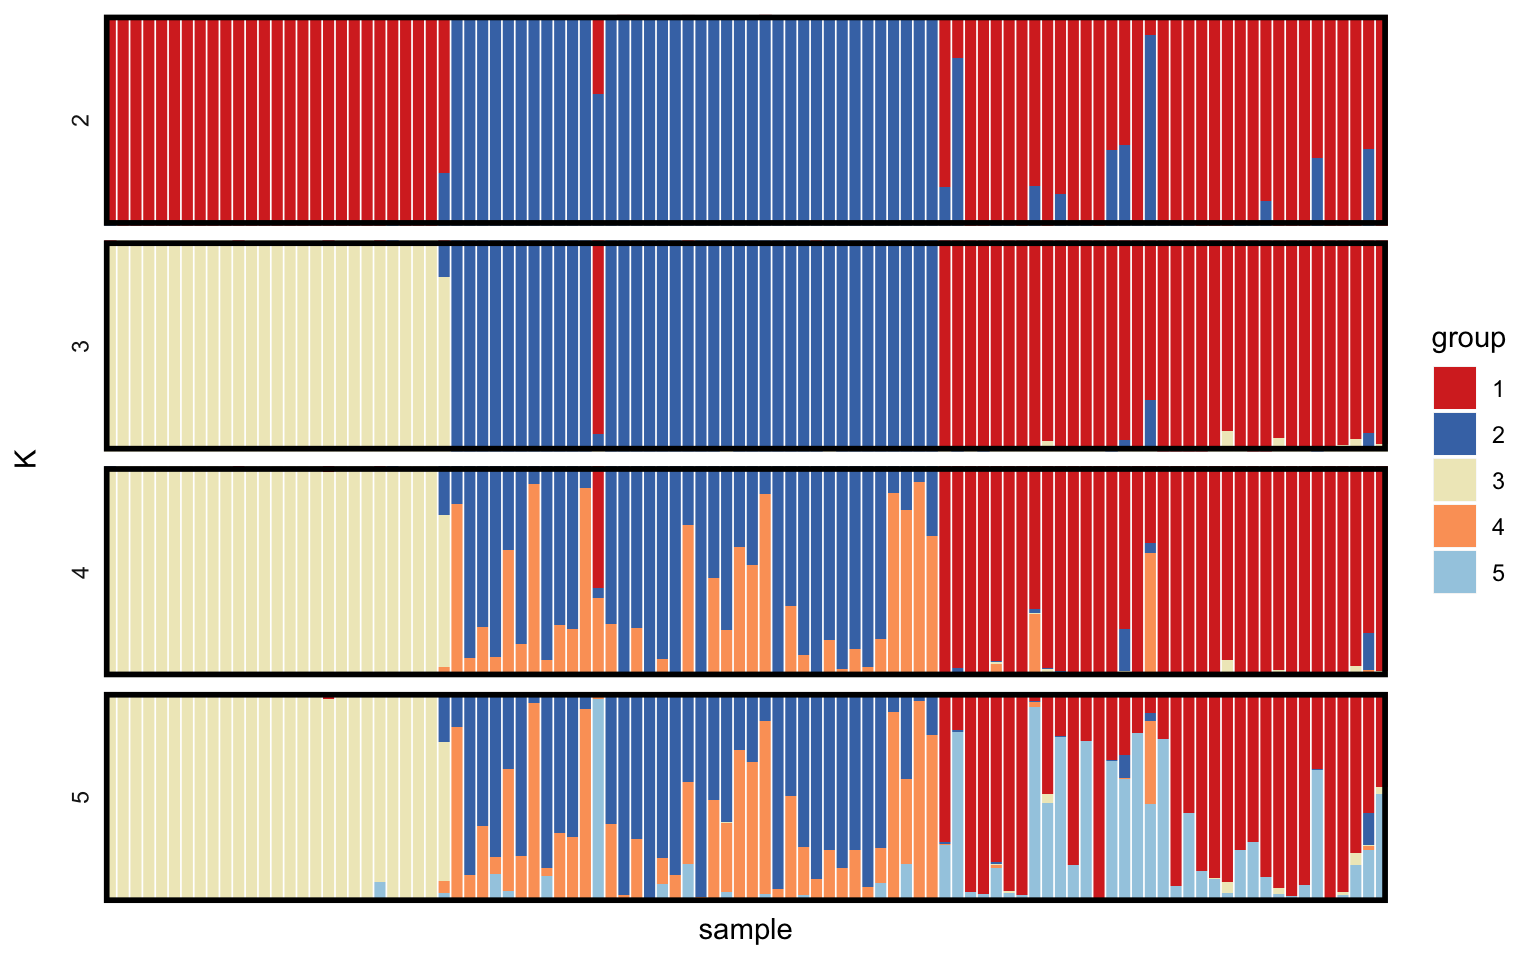
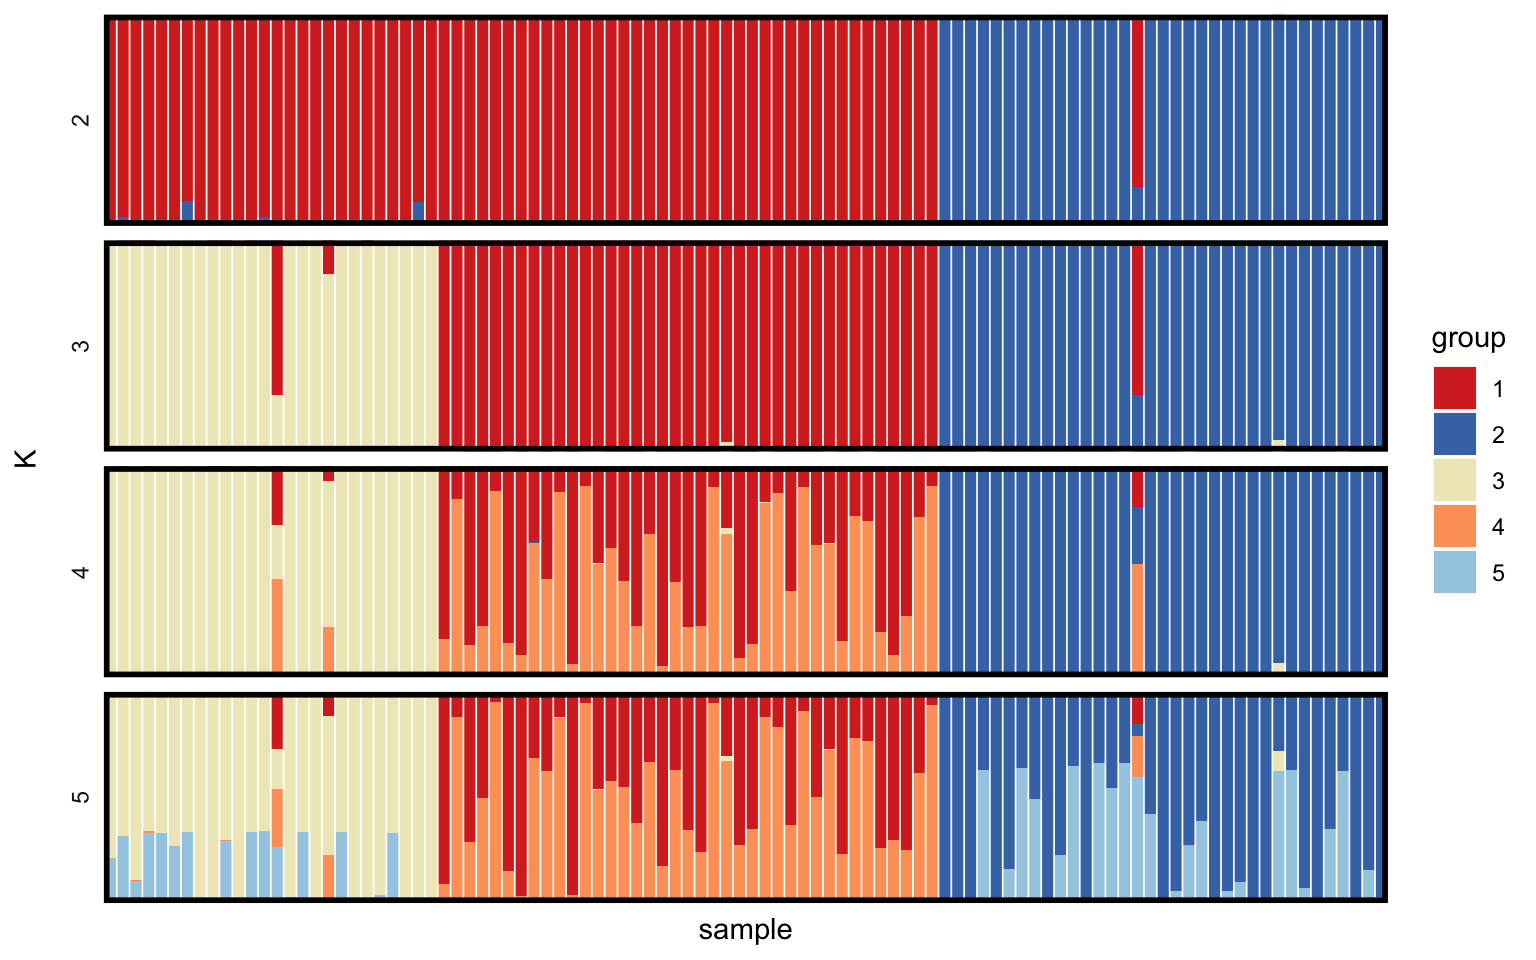
updates to website

diff --git a/docs/articles/tutorial-biallelic.html b/docs/articles/tutorial-biallelic.html
@@ -94,57 +94,50 @@
 
     
     
-<p>This vignette demonstrates the complete MALECOT analysis pipeline, including:</p>
-<ul>
-<li>importing data</li>
-<li>running the main MCMC</li>
-<li>diagnosing good and bad MCMC behaviour</li>
-<li>comparing different models</li>
-<li>producing basic outputs.</li>
-</ul>
+<p>This vignette demonstrates the complete MALECOT analysis pipeline for <em>bi-allelic</em> data, i.e. data for which there are two alleles at every locus (the classic example being SNP data).</p>
 <div id="simulate-some-data" class="section level3">
 <h3 class="hasAnchor">
 <a href="#simulate-some-data" class="anchor"></a>Simulate some data</h3>
-<p>MALECOT comes with built-in functions for simulating data from different models. The models used in simulation are exactly the same as the models used in the inference step, allowing us to test the power of the program without worrying about discrepancies between the data and the assumed model. We will simulate a data set of 100 samples, each genotyped at 20 bi-allelic loci and originating from 3 distinct subpopulations. We will assume that the mean complexity of infection (COI) in these subpopulation varies from 1 to 3:</p>
-<div class="sourceCode"><pre class="sourceCode r"><code class="sourceCode r">mysim &lt;-<span class="st"> </span><span class="kw"><a href="../reference/sim_data.html">sim_data</a></span>(<span class="dt">n =</span> <span class="dv">100</span>, <span class="dt">data_format =</span> <span class="st">"biallelic"</span>, <span class="dt">L =</span> <span class="dv">24</span>, <span class="dt">K =</span> <span class="dv">3</span>, <span class="dt">COI_mean =</span> <span class="kw">c</span>(<span class="dv">3</span>,<span class="dv">2</span>,<span class="dv">1</span>))</code></pre></div>
+<p>MALECOT comes with built-in functions for simulating data from different models. The models used in simulation are exactly the same as the models used in the inference step, allowing us to test the power of the program to arrive at the correct answer. We will simulate a data set of 100 samples, each genotyped at 24 loci and originating from 3 distinct subpopulations. We will assume that the mean complexity of infection (COI) in these subpopulation varies from 1.5 to 3:</p>
+<div class="sourceCode"><pre class="sourceCode r"><code class="sourceCode r">mysim &lt;-<span class="st"> </span><span class="kw"><a href="../reference/sim_data.html">sim_data</a></span>(<span class="dt">n =</span> <span class="dv">100</span>, <span class="dt">data_format =</span> <span class="st">"biallelic"</span>, <span class="dt">L =</span> <span class="dv">24</span>, <span class="dt">K =</span> <span class="dv">3</span>, <span class="dt">COI_mean =</span> <span class="kw">c</span>(<span class="fl">1.5</span>,<span class="dv">2</span>,<span class="dv">3</span>))</code></pre></div>
 <p>Running <code>names(mysim)</code> we can see that the simulated data contains several elements:</p>
 <div class="sourceCode"><pre class="sourceCode r"><code class="sourceCode r"><span class="kw">names</span>(mysim)</code></pre></div>
 <pre><code>## [1] "data"       "n"          "L"          "true_group" "true_m"    
 ## [6] "true_p"     "call"</code></pre>
-<p>The raw data is stored in the “data” element. In addition, we have a record of the allele frequencies (p), the complexity of infection (m) and the grouping that were used in generating these data. These additional records can be useful in ground-truthing our estimated values later on, but are not actually used by the program - all that is needed for MALECOT analysis is the “data” element.</p>
-<p>Data must be in dataframe format - when using real data, functions such as <code>read.csv()</code> and <code>read.table()</code> can be used to import data. Running <code>head(mysim$data)</code> we can see the general data format required by MALECOT:</p>
+<p>The actual data that we are interested in is stored in the “data” element, but notice that we also have a record of the allele frequencies (“true_p”), the complexity of infection (“true_m”) and the grouping (“true_group”) that were used in generating these data. These additional records can be useful in ground-truthing our estimated values later on, but are not actually used by the program - all that is needed for MALECOT analysis is the “data” element.</p>
+<p>Running <code>head(mysim$data)</code> we can see the general format required by MALECOT:</p>
 <div class="sourceCode"><pre class="sourceCode r"><code class="sourceCode r"><span class="kw">head</span>(mysim$data)</code></pre></div>
 <pre><code>##   sample_ID pop locus1 locus2 locus3 locus4 locus5 locus6 locus7 locus8
-## 1   samp001   1    1.0    0.0    0.0    0.0    1.0    0.0    0.0    0.0
-## 2   samp002   1    0.0    0.5    0.0    0.5    0.0    0.5    1.0    0.5
-## 3   samp003   1    0.5    0.0    0.5    0.0    0.0    1.0    0.5    0.0
-## 4   samp004   1    0.5    0.5    0.5    0.5    0.0    1.0    0.0    0.0
-## 5   samp005   1    0.5    1.0    1.0    0.5    0.5    0.5    0.5    0.5
-## 6   samp006   1    0.0    0.5    1.0    0.5    0.0    1.0    0.0    0.5
+## 1   samp001   1      0    1.0      0    0.0      0      1    0.0      1
+## 2   samp002   1      1    1.0      1    1.0      0      1    0.0      1
+## 3   samp003   1      0    1.0      0    1.0      0      1    1.0      0
+## 4   samp004   1      0    0.0      1    0.0      0      1    1.0      0
+## 5   samp005   1      0    0.5      0    0.5      0      1    0.5      0
+## 6   samp006   1      0    1.0      0    0.0      0      1    0.0      1
 ##   locus9 locus10 locus11 locus12 locus13 locus14 locus15 locus16 locus17
-## 1      1       1     0.0     1.0     1.0       0     0.0       1     0.0
-## 2      0       1     1.0     1.0     1.0       0     0.5       1     0.5
-## 3      0       1     0.5     0.5     1.0       0     1.0       1     0.0
-## 4      0       1     1.0     1.0     0.5       0     1.0       1     0.0
-## 5      0       1     1.0     0.5     0.5       0     0.5       1     0.0
-## 6      0       1     0.5     1.0     0.5       0     0.5       1     0.0
+## 1      0       1       1       1       0       0       0       1     1.0
+## 2      0       1       1       1       1       0       1       1     0.0
+## 3      0       1       1       1       1       0       1       0     0.0
+## 4      0       1       1       1       0       0       1       0     0.0
+## 5      0       1       1       1       1       0       1       1     0.5
+## 6      0       1       1       1       0       0       0       1     1.0
 ##   locus18 locus19 locus20 locus21 locus22 locus23 locus24
-## 1     0.0     1.0       0     0.0     0.0     1.0       1
-## 2     0.0     0.5       0     0.5     0.0     1.0       1
-## 3     0.0     0.5       0     1.0     0.5     0.5       1
-## 4     0.5     1.0       0     0.5     0.5     1.0       1
-## 5     0.5     0.5       0     1.0     0.0     0.5       1
-## 6     0.5     1.0       0     1.0     0.5     0.5       1</code></pre>
-<p>Note that this is the required format <strong>for bi-allelic data only</strong> - for multi-allelic data see <a href="todo">this vignette</a>.</p>
-<p>Samples are in rows and loci are in columns. There are also several meta-data columns, including the sample ID and the population of origin. These meta-data columns are optional and can be turned on or off when loading the data into a project.</p>
+## 1       0     1.0       0     1.0     0.0       1       1
+## 2       0     1.0       0     1.0     1.0       0       1
+## 3       1     0.0       0     1.0     0.0       1       1
+## 4       0     0.0       0     1.0     0.0       1       1
+## 5       0     0.5       0     0.5     0.5       1       1
+## 6       0     0.0       0     1.0     0.0       0       1</code></pre>
+<p>Note that this is the required format <strong>for bi-allelic data only</strong> - multi-allelic data is dealt with in <a href="https://bobverity.github.io/MALECOT/articles/tutorial-multiallelic.html">this vignette</a>.</p>
+<p>Data must be in the form of a dataframe, with samples in rows and loci in columns. When using real data, functions such as <code>read.csv()</code> and <code>read.table()</code> can be used to import data in this format. There are several meta-data columns in the example above, including the sample ID and the population of origin. These meta-data columns are optional and can be turned on or off when loading the data into a project.</p>
 <p>The actual genetic data must be one of the following values</p>
 <ul>
-<li>1 = homozygote for the reference allele</li>
-<li>0 = homozygote for the alternative allele</li>
-<li>0.5 = heterozygote</li>
-<li>-9 = missing data (the value used can be specified, but -9 is the default)</li>
+<li>1 = homozygote for the reference (REF) allele</li>
+<li>0 = homozygote for the alternative (ALT) allele</li>
+<li>0.5 = heterozygote (both alleles seen)</li>
+<li>-9 = missing data (this value can be specified, -9 is the default)</li>
 </ul>
-<p>Note that MALECOT currently does not use within-sample allele frequency information other than in terms of the major homozygote/heterozygote call, therefore intermediate values should be converted to one of the above options. MALECOT does, however, include error terms to allow for misclassification of homozygote/heterozygote calls.</p>
+<p>MALECOT currently does not use within-sample allele frequency data - for example the raw read depth of REF vs. ALT alleles - and hence read depths should be converted to homozygote/heterozygote calls prior to analysis. MALECOT does, however, include error terms that allow for misclassification of homozygotes as heterozygotes and vice versa, which can account for some noise in the data.</p>
 </div>
 <div id="create-a-project-and-read-in-data" class="section level3">
 <h3 class="hasAnchor">
@@ -152,7 +145,7 @@
 <p>MALCOT works with projects, which are essentially just simple lists containing all the inputs and outputs of a given analysis. We start by creating a project and loading in our data:</p>
 <div class="sourceCode"><pre class="sourceCode r"><code class="sourceCode r">myproj &lt;-<span class="st"> </span><span class="kw"><a href="../reference/malecot_project.html">malecot_project</a></span>()
 myproj &lt;-<span class="st"> </span><span class="kw"><a href="../reference/bind_data_biallelic.html">bind_data_biallelic</a></span>(myproj, mysim$data, <span class="dt">ID_col =</span> <span class="dv">1</span>, <span class="dt">pop_col =</span> <span class="dv">2</span>)</code></pre></div>
-<p>Notice the general format of the <code>bind_data()</code> function, which takes the same project as both input and output. This is the format that most MALECOT functions will take, as it allows a function to modify the project before overwriting the original version. In the input arguments we have also specified which columns are meta-data, and all other columns are assumed to contain genetic data.</p>
+<p>Notice the general format of the <code>bind_data()</code> function, which takes the same project as both input and output. This is the format that most MALECOT functions will take, as it allows a function to modify the project before overwriting the original version. In the input arguments we have specified which columns are meta-data, and all other columns are assumed to contain genetic data.</p>
 <p>We can view the project to check that the data have been loaded in correctly:</p>
 <div class="sourceCode"><pre class="sourceCode r"><code class="sourceCode r">myproj</code></pre></div>
 <pre><code>## DATA:
@@ -169,10 +162,10 @@ myproj &lt;-<span class="st"> </span><span class="kw"><a href="../reference/bind
 <div id="define-parameters-and-run-basic-mcmc" class="section level3">
 <h3 class="hasAnchor">
 <a href="#define-parameters-and-run-basic-mcmc" class="anchor"></a>Define parameters and run basic MCMC</h3>
-<p>We can define different models by using different parameter sets. Our first parameter set will represent a simple model in which any COI between 1 and <code>COI_max</code> is equally likely <em>a priori</em>, and in which there is zero error in genotype calls:</p>
+<p>We can define different models by using different parameter sets. Our first parameter set will represent a simple model in which any COI between 1 and <code>COI_max</code> is equally likely <em>a priori</em>. We also assume zero error in genotype calls:</p>
 <div class="sourceCode"><pre class="sourceCode r"><code class="sourceCode r">myproj &lt;-<span class="st"> </span><span class="kw"><a href="../reference/new_set.html">new_set</a></span>(myproj, <span class="dt">name =</span> <span class="st">"uniform model"</span>, <span class="dt">COI_model =</span> <span class="st">"uniform"</span>,
                   <span class="dt">COI_max =</span> <span class="dv">20</span>, <span class="dt">estimate_error =</span> <span class="ot">FALSE</span>, <span class="dt">e1 =</span> <span class="dv">0</span>, <span class="dt">e2 =</span> <span class="dv">0</span>)</code></pre></div>
-<p>Producing a summary of the project we can now see additional properties, including the current active set and the parameters of this set.</p>
+<p>Viewing the project we can now see additional properties, including the current active set and the parameters of this set.</p>
 <div class="sourceCode"><pre class="sourceCode r"><code class="sourceCode r">myproj</code></pre></div>
 <pre><code>## DATA:
 ##    data format = biallelic
@@ -188,8 +181,6 @@ myproj &lt;-<span class="st"> </span><span class="kw"><a href="../reference/bind
 ##    lambda = 1
 ##    COI model = uniform
 ##    COI max = 20
-##    estimate COI mean = TRUE
-##    COI dispersion = 2
 ##    estimate error = FALSE
 ##    e1 = 0
 ##    e2 = 0</code></pre>
@@ -201,38 +192,26 @@ myproj &lt;-<span class="st"> </span><span class="kw"><a href="../reference/bind
 ## 
   |                                                                       
   |=================================================================| 100%
-##    converged within 1900 iterations
+##    converged within 1300 iterations
 ## Sampling phase
 ## 
   |                                                                       
   |=================================================================| 100%
-##    completed in 1.76111 seconds
+##    completed in 1.71437 seconds
 ## 
 ## Running MCMC for K = 2
 ## Burn-in phase
 ## 
   |                                                                       
   |=================================================================| 100%
-##    converged within 1700 iterations
+##    converged within 1600 iterations
 ## Sampling phase
 ## 
   |                                                                       
   |=================================================================| 100%
-##    completed in 2.99292 seconds
+##    completed in 2.96512 seconds
 ## 
 ## Running MCMC for K = 3
-## Burn-in phase
-## 
-  |                                                                       
-  |=================================================================| 100%
-##    converged within 1700 iterations
-## Sampling phase
-## 
-  |                                                                       
-  |=================================================================| 100%
-##    completed in 3.44192 seconds
-## 
-## Running MCMC for K = 4
 ## Burn-in phase
 ## 
   |                                                                       
@@ -242,22 +221,34 @@ myproj &lt;-<span class="st"> </span><span class="kw"><a href="../reference/bind
 ## 
   |                                                                       
   |=================================================================| 100%
-##    completed in 4.47019 seconds
+##    completed in 3.88445 seconds
+## 
+## Running MCMC for K = 4
+## Burn-in phase
+## 
+  |                                                                       
+  |=================================================================| 100%
+##    converged within 1900 iterations
+## Sampling phase
+## 
+  |                                                                       
+  |=================================================================| 100%
+##    completed in 4.701 seconds
 ## 
 ## Running MCMC for K = 5
 ## Burn-in phase
 ## 
   |                                                                       
   |=================================================================| 100%
-##    converged within 1700 iterations
+##    converged within 1900 iterations
 ## Sampling phase
 ## 
   |                                                                       
   |=================================================================| 100%
-##    completed in 5.24515 seconds
+##    completed in 5.49936 seconds
 ## 
 ## Processing results</code></pre>
-<pre><code>## Total run-time: 19.56 seconds</code></pre>
+<pre><code>## Total run-time: 20.4 seconds</code></pre>
 <p>If any values of K failed to converge then we can use the same <code><a href="../reference/run_mcmc.html">run_mcmc()</a></code> function to re-run the MCMC for just a single value of K and with different parameters (for example a longer burn-in). This will overwrite the existing output for the specified value of K, but will leave all other values untouched:</p>
 </div>
 <div id="comparing-values-of-k" class="section level3">

diff --git a/docs/articles/installation.html b/docs/articles/installation.html
@@ -128,7 +128,7 @@
 <div class="sourceCode"><pre class="sourceCode r"><code class="sourceCode r"><span class="kw">install.packages</span>(<span class="st">"devtools"</span>, <span class="dt">repos=</span><span class="st">'http://cran.us.r-project.org'</span>)</code></pre></div>
 <p>Then install the MALECOT package directly from GitHub by running</p>
 <div class="sourceCode"><pre class="sourceCode r"><code class="sourceCode r">devtools::<span class="kw">install_github</span>(<span class="st">"bobverity/malecot"</span>)</code></pre></div>
-<p>If you have any problems installing, please check the <a href="https://bobverity.github.io/malecot/articles/known-issues.html">Known issues</a> page to see if there is a known solution. If not then please <a href="https://github.com/bobverity/malecot/issues">raise an issue</a> on github.</p>
+<p>If you have any problems installing, please check the <a href="https://bobverity.github.io/MALECOT/articles/known-issues.html">Known issues</a> page to see if there is a known solution. If not then please <a href="https://github.com/bobverity/malecot/issues">raise an issue</a> on github.</p>
 <p>Assuming everything installed correctly, we need to load the package:</p>
 <div class="sourceCode"><pre class="sourceCode r"><code class="sourceCode r"><span class="kw">library</span>(MALECOT)</code></pre></div>
 <p>You can test that the package is loaded and working by running the following command, which should produce this output:</p>

diff --git a/docs/index.html b/docs/index.html
@@ -100,7 +100,7 @@
 <li>Complexity of infection (COI) of each sample, i.e. how many genotypes are represented in each sample</li>
 </ol>
 <p>The first two parameters are estimated by programs like <a href="https://web.stanford.edu/group/pritchardlab/structure.html">STRUCTURE</a>, but the third parameter is not, making STRUCTURE not ideally suited to malaria data where complex infections are common.</p>
-<p>To get started, take a look at the <a href="https://bobverity.github.io/MALECOT">installation instructions</a>, followed by a <a href="https://bobverity.github.io/MALECOT">basic tutorial</a> on running the program.</p>
+<p>To get started, take a look at the <a href="https://bobverity.github.io/MALECOT/articles/installation.html">installation instructions</a>, followed by a <a href="https://bobverity.github.io/MALECOT/articles/tutorial-biallelic.html">basic tutorial</a> on running the program.</p>
 </div>
 </div>
   </div>

diff --git a/index.md b/index.md
@@ -15,5 +15,5 @@ MALECOT is an R package for inferring population structure from genetic data, an
 
 The first two parameters are estimated by programs like [STRUCTURE](https://web.stanford.edu/group/pritchardlab/structure.html), but the third parameter is not, making STRUCTURE not ideally suited to malaria data where complex infections are common.
 
-To get started, take a look at the [installation instructions](https://bobverity.github.io/MALECOT), followed by a [basic tutorial](https://bobverity.github.io/MALECOT) on running the program.
+To get started, take a look at the [installation instructions](https://bobverity.github.io/MALECOT/articles/installation.html), followed by a [basic tutorial](https://bobverity.github.io/MALECOT/articles/tutorial-biallelic.html) on running the program.
 
